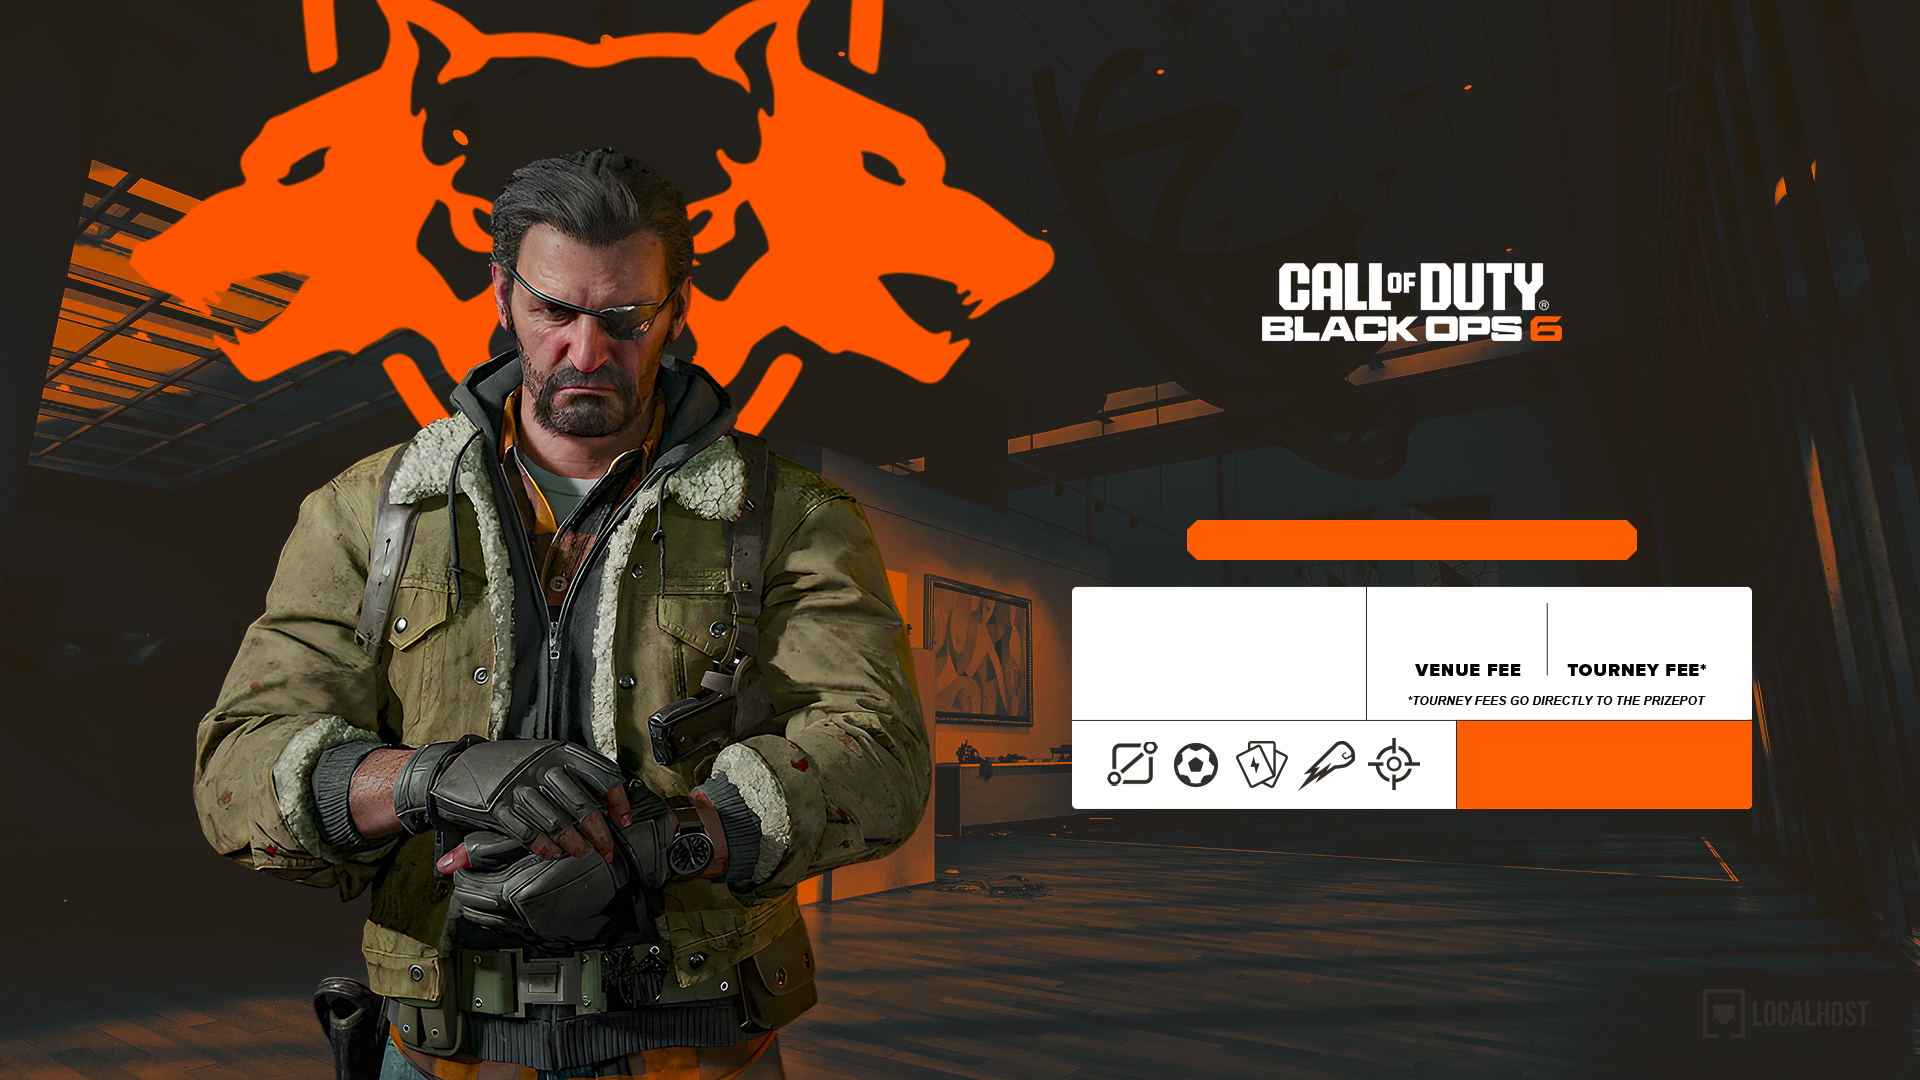
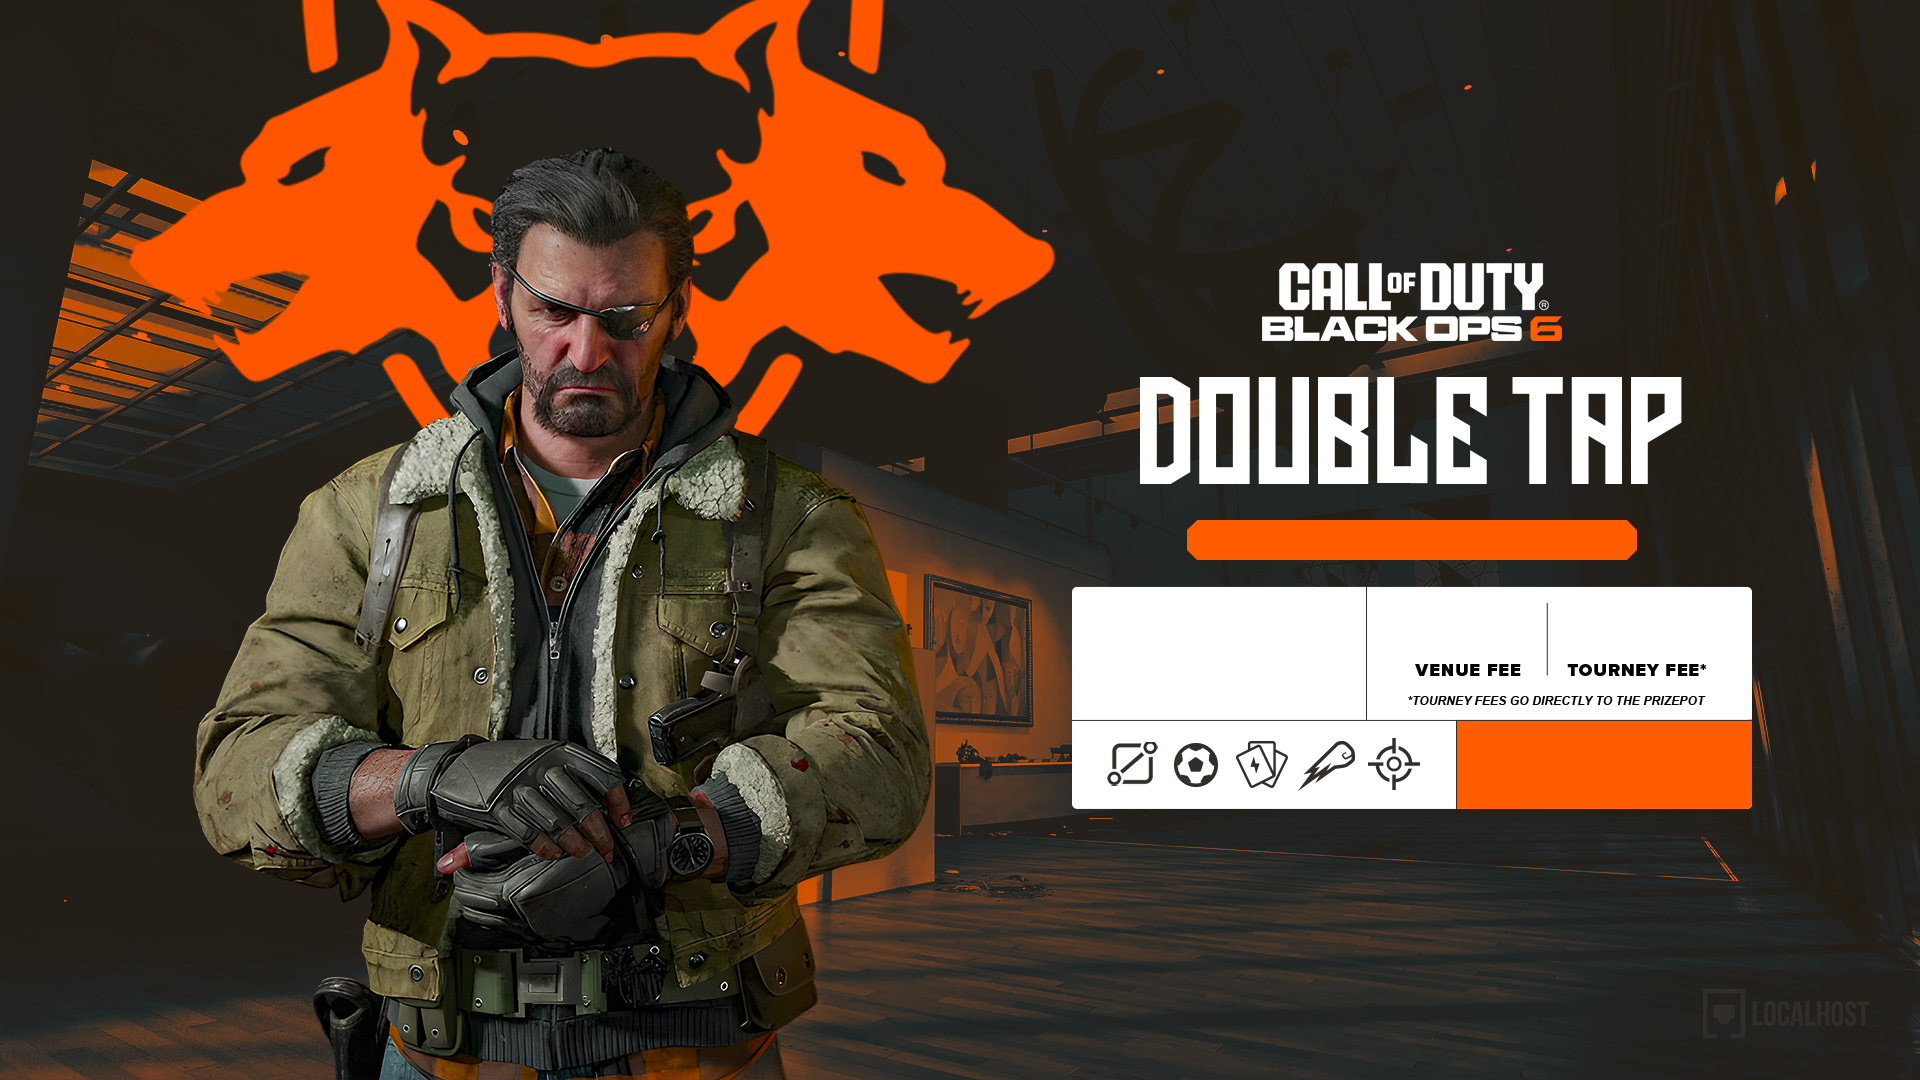
text alignment, variable pathing for text fill, auto fill overlay data sources object on init and potential for other scenarios like overlay changes (when gui editor exists)

Changed region(s): [[0.5938, 0.3361, 0.875, 0.4583]]

diff --git a/js_scripts/overlays.js b/js_scripts/overlays.js
@@ -1,5 +1,10 @@
-// accepts list of data sources that have been changed to determine what overlays to regenerate, send null to generate all
+// accepts list of data sources that have been changed to determine what overlays to regenerate, send null to generate all and set source paths
 function generateStreamOverlays(sources = null, callback = () => {}) {
+	
+	// if sources is null, set GLOBAL flag to regenerate sources
+	if (sources == null) {
+		GLOBAL.generate_sources = true;
+	}
 	
 	// pre-initialize ajax loader for overlay generation (useVRAM may stall the loader)
 	ajaxInitLoader('body');
@@ -13,6 +18,9 @@ function generateStreamOverlays(sources = null, callback = () => {}) {
 	// canvas context
 	let ctx = canvas.getContext('2d');
 	
+	// use top-down baseline for easier reference during data output from .psd
+	ctx.textBaseline = 'top';
+	
 	// overlay output, prepared as ready to send form object
 	let output_overlays = {
 		application: 'export_overlays',
@@ -21,10 +29,15 @@ function generateStreamOverlays(sources = null, callback = () => {}) {
 	};
 	
 	// loop currents overlays and detect which to update based on sources change
-	GLOBAL.active_tournament.overlays.forEach(overlay => {
+	GLOBAL.active_tournament.overlays.forEach((overlay, overlay_index) => {
 		
 		// if overlay contains an updated source, or sources is null
 		if (sources == null || overlay.sources.filter(x => sources.includes(x)).length > 0) {
+			
+			// if global flag, reset overlay sources
+			if (GLOBAL.generate_sources == true) {
+				GLOBAL.active_tournament.overlays[overlay_index].sources = [];
+			}
 		
 			// log overlay slug for capture with PHP
 			output_overlays.changed.push(overlay.slug);
@@ -60,7 +73,7 @@ function generateOverlay(ctx, output_overlays, overlay) {
 		if (layer.type == 'image') {
 			printImage(ctx, layer);
 		} else if (layer.type == 'text') {
-			printText(ctx, layer);
+			printText(ctx, layer, i);
 		}
 		
 	}
@@ -75,6 +88,51 @@ function printImage(ctx, layer) {
 	);
 }
 
-function printText(ctx, layer) {
+function printText(ctx, layer, parent_index) {
+	ctx.font = layer.style.font_size+' '+layer.style.font;
+	ctx.fillStyle = layer.style.color;
 	
+	// default align left
+	let align_type = layer.style.align ?? 'left';
+	ctx.textAlign = align_type;
+	
+	// text value output
+	let value = layer.value;
+	
+	// detect if path variable
+	if (value[0] == '$' && value.slice(-1) == '$') {
+		
+		// remove path delimiters
+		let path = value.slice(1, -1);
+		
+		// if global flag, add path to overlay sources
+		if (GLOBAL.generate_sources == true) {
+			GLOBAL.active_tournament.overlays[parent_index].sources.push(path);
+		}
+		
+		// split path
+		path = path.split('/');
+		
+		// path base reference
+		let reference_path = GLOBAL.active_tournament.data;
+		
+		// pull from use path
+		while (path.length > 0) {
+			
+			// shift from use path into reference path
+			reference_path = reference_path[path.shift()];
+			
+		}
+		
+		// set value from final reference path
+		value = reference_path;
+	}
+	
+	// draw text
+  ctx.fillText(
+		value,
+		layer.offset.x,
+		layer.offset.y,
+		layer.dimensions.width
+	);
 }

diff --git a/js_scripts/main.js b/js_scripts/main.js
@@ -1,6 +1,7 @@
 // global variable for overlay and tournament data
 var GLOBAL = {
-	useVRAM: true
+	use_vram: true, // generate Bitmaps for faster overlay creation at the cost of the GPU
+	generate_sources: true // flag used by generateStreamOverlays(null) when passed null to update overlay sources (defines what UI value updates will proc a stream overlay image export)
 };
 
 function initStreamOverlay() {
@@ -12,10 +13,8 @@ function initStreamOverlay() {
 
 	
 	### TODO ###
-	- create proof of concept generic overlay using tournament settings information
 	- create UI editor for tournament settings
 	- tag overlays with "sources" to prompt javascript to generate specific overlays on the change of data
-	- front end application to generate overlay and export through PHP
 	- create player and teams data structures along with UI (logo, name, colors, etc)
 	- create bracket system
 	- create UI for filling bracket with team data
@@ -84,7 +83,7 @@ function loadOverlayDependencies() {
 				// !! - this could potentially cause issues to low spec computers if the user has too many assets/layers and need those specs for gaming... offer base RAM loaded image option
 				// !! - bitmaps generate overlays significantly faster
 				
-				if (GLOBAL.useVRAM) {
+				if (GLOBAL.use_vram) {
 					
 					// replace source with bitmap (additional async action): VRAM
 					createImageBitmap(image).then(bitmap => {
